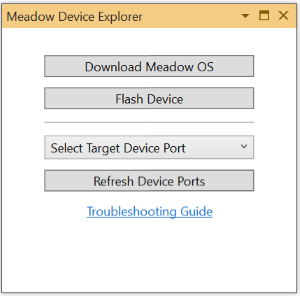
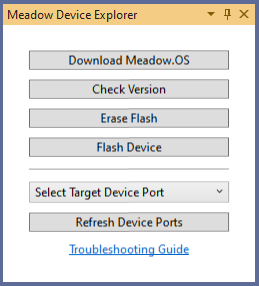
Update Deploy Meadow instructions

diff --git a/docs/Meadow/Getting_Started/Deploying_Meadow/VSExtension/index.md b/docs/Meadow/Getting_Started/Deploying_Meadow/VSExtension/index.md
@@ -10,7 +10,7 @@ First, you need to install the latest **VS Tools for Meadow Extension** by [down
 
 1. In Visual Studio, go to **Extensions** > **Manage Extensions**.
 1. Click **Online** and search for `Meadow`.
-1. Install **VS Tools for Meadow** (version 0.6.0 or later), shut down all instances of Visual Studio, and restart.
+1. Install **VS Tools for Meadow**, shut down all instances of Visual Studio, and restart.
 
 ## Install Meadow.OS
 
@@ -19,7 +19,9 @@ First, you need to install the latest **VS Tools for Meadow Extension** by [down
 1. Open Visual Studio 2019 and select **Continue without code**.
 1. Open Meadow Device Explorer: View > Other Windows > Meadow (or Ctrl+Shift+M).  
 ![Meadow Device Explorer](explorer.png){:standalone}
-1. Click **Download MeadowOS**.
+1. Click **Download Meadow.OS**.
+1. Connect the device in normal mode and click **Check Version**.
+1. If you are on OS version 0.3.12 or later, you must first **Erase Flash**.
 1. Connect your Meadow device in bootloader mode by connecting your device while holding down the **BOOT** button.
 1. Click **Flash Device**. This will take a couple minutes to complete.
 1. Choose the correct port in **Select Target Device Port** dropdown. *Hint: open Device Manager and expand Ports (COM & LPT), the correct Meadow device COM port is **USB Serial Device**.*
